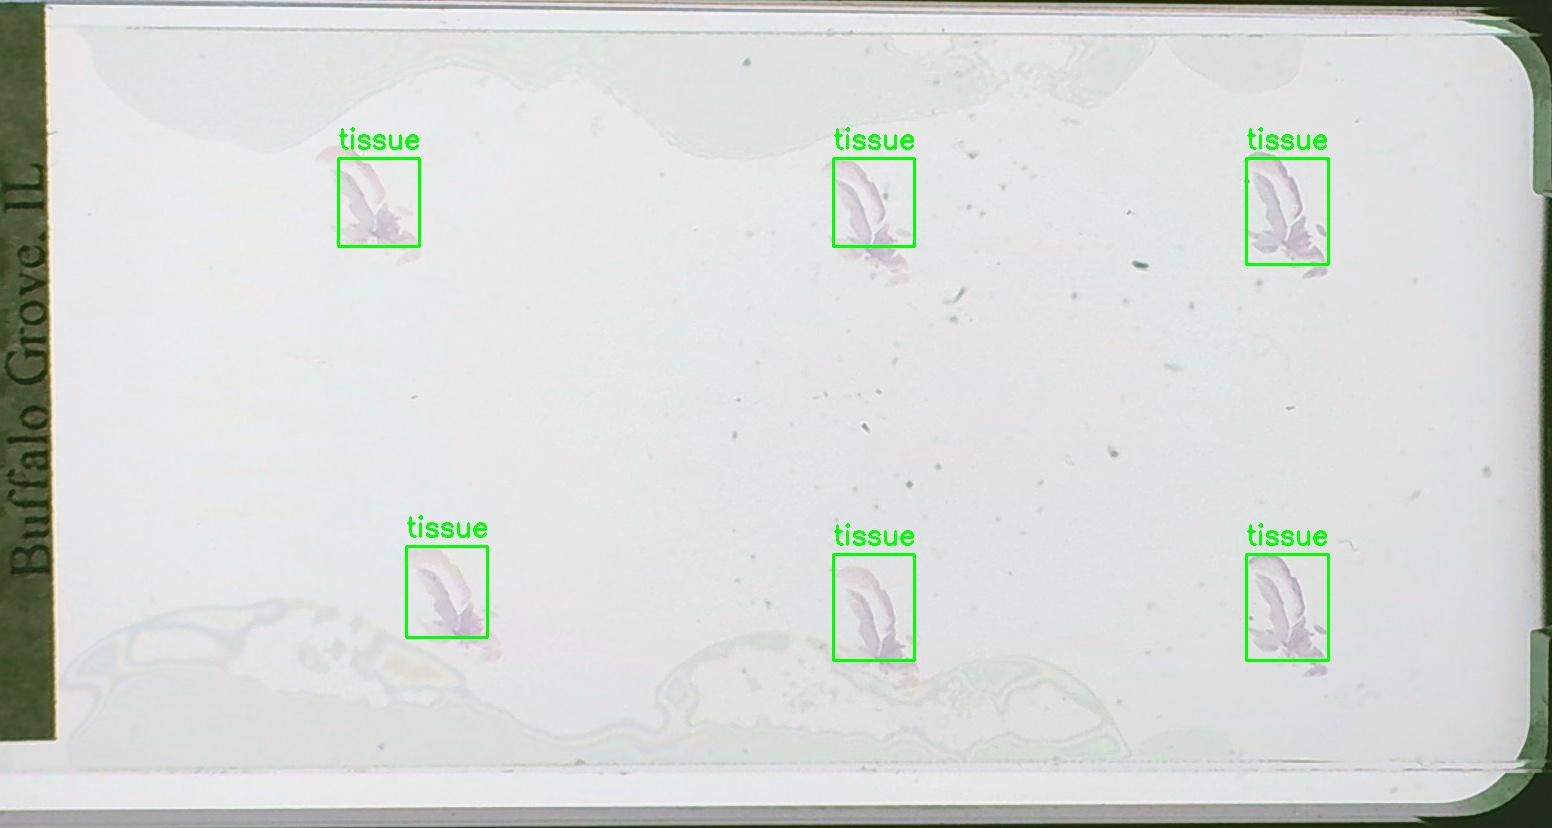
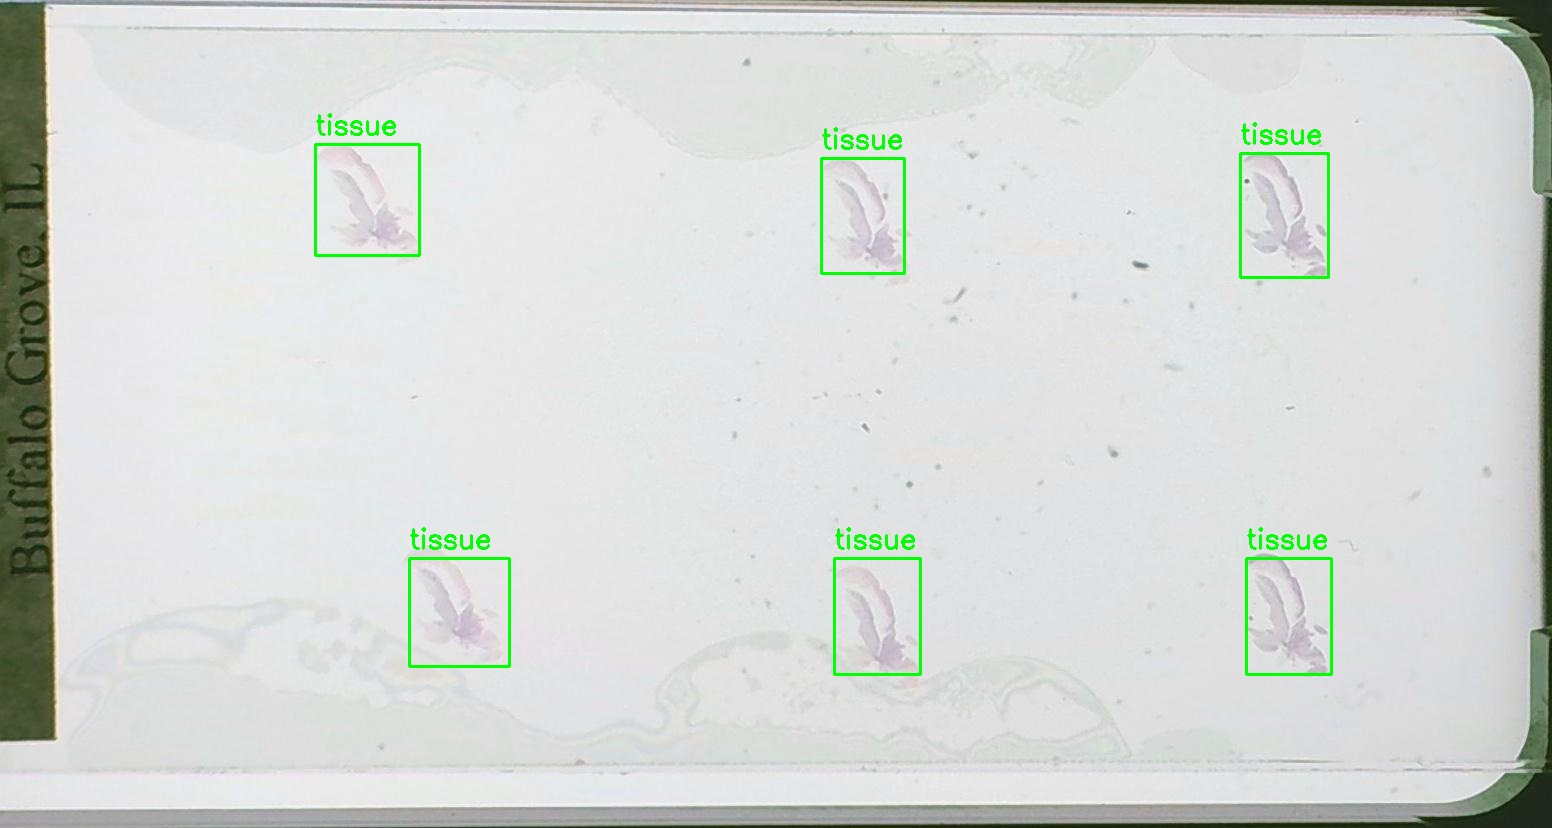
gemini extract works

diff --git a/find_identifying_boxes.py b/find_identifying_boxes.py
@@ -10,9 +10,9 @@ from pylibdmtx.pylibdmtx import decode as dmtx_decode
 from pyzbar import pyzbar
 
 from gcp_textract import detect_text
-from gemini_extract_tissue import (  # Import from gemini script
+from gemini_extract import (  # Import from gemini script
     BoundingBox,
-    gemini_extract_tissue,
+    gemini_extract,
 )
 
 # https://github.com/NaturalHistoryMuseum/pyzbar/issues/131
@@ -21,6 +21,7 @@ from gemini_extract_tissue import (  # Import from gemini script
 # --- Usage Examples ---
 # Process a single image and display the result:
 # uv run python find_identifying_boxes.py ./sample/macro_images/GR24-4430_A_HE_M_78_macro.jpg
+# uv run python find_identifying_boxes.py ./sample/macro_images/GP17-009358_A_HE_macro.jpg
 #
 # Process a single image and save the annotated output:
 # uv run python find_identifying_boxes.py ./sample/macro_images/GR24-4430_A_HE_M_78_macro.jpg --output ./sample/macro_images_annotated/GR24-4430_A_HE_M_78_macro_annotated.jpg
@@ -334,27 +335,38 @@ def process_image(image_path, output_path=None, hide_window=False):
     # --- Tissue Detection (Gemini) ---
     print("  Finding tissue regions (using Gemini)...")
     tissue_start = time.time()
-    tissue_boxes_rel: list[BoundingBox] = []
-    tissue_boxes_abs: list[tuple[int, int, int, int]] = []
+    gemini_response: list[BoundingBox] = []
+    gemini_tissue_boxes_abs: list[tuple[int, int, int, int]] = []
+    gemini_text_boxes_abs: list[tuple[int, int, int, int]] = []
     try:
         # Assuming gemini_extract_tissue handles its own auth/config via env vars or defaults
         # Pass None for project/location initially, relying on its internal handling
-        tissue_boxes_rel = gemini_extract_tissue(
-            file_path=image_path, project_id=None, location=None
+        gemini_response = gemini_extract(
+            file_path=image_path,
         )
-        if tissue_boxes_rel:
+        if gemini_response:
             # Convert relative coordinates to absolute pixel coordinates
-            for box in tissue_boxes_rel:
+            for box in gemini_response:
                 x_abs = int(box["x"] * img_width)
                 y_abs = int(box["y"] * img_height)
                 w_abs = int(box["width"] * img_width)
                 h_abs = int(box["height"] * img_height)
                 # Basic validation
-                if w_abs > 0 and h_abs > 0:
-                    tissue_boxes_abs.append((x_abs, y_abs, w_abs, h_abs))
+                if w_abs <= 0 or h_abs <= 0:
+                    print(
+                        f"    - Warning: Skipping invalid tissue box dimension from Gemini: {box}"
+                    )
+                    continue
+                if box["label"] == "tissue":
+                    gemini_tissue_boxes_abs.append((x_abs, y_abs, w_abs, h_abs))
                     print(
                         f"    - Tissue Label: {box['label']}, Rect: {(x_abs, y_abs, w_abs, h_abs)}"
-                    )  # Print absolute coords
+                    )
+                elif box["label"] == "text":
+                    gemini_text_boxes_abs.append((x_abs, y_abs, w_abs, h_abs))
+                    print(
+                        f"    - Text Label: {box['label']}, Rect: {(x_abs, y_abs, w_abs, h_abs)}"
+                    )
                 else:
                     print(
                         f"    - Warning: Skipping invalid tissue box dimension from Gemini: {box}"
@@ -366,7 +378,7 @@ def process_image(image_path, output_path=None, hide_window=False):
 
     tissue_duration = time.time() - tissue_start
     print(
-        f"  Found {len(tissue_boxes_abs)} tissue region(s). (Detection time: {tissue_duration:.4f}s)"
+        f"  Found {len(gemini_tissue_boxes_abs)} tissue region(s). (Detection time: {tissue_duration:.4f}s)"
     )
 
     # Combine barcode and text boxes for initial check
@@ -375,18 +387,23 @@ def process_image(image_path, output_path=None, hide_window=False):
         initial_all_boxes.extend([b["rect"] for b in barcode_boxes])
     if text_boxes:  # Check if text_boxes is not None/empty
         initial_all_boxes.extend(text_boxes)
+    if gemini_text_boxes_abs:  # Also include gemini text boxes in the initial list
+        initial_all_boxes.extend(gemini_text_boxes_abs)
+        text_boxes.extend(
+            gemini_text_boxes_abs
+        )  # Combine GCP and Gemini text boxes for filtering/drawing
 
     # --- Filter boxes intersecting with tissue ---
     filtered_barcode_boxes = []  # Keep original structure for drawing labels
     filtered_text_boxes = []
     filtered_all_rects = []  # List of (x,y,w,h) for encompassing box calc
 
-    if tissue_boxes_abs:  # Only filter if we have tissue boxes
+    if gemini_tissue_boxes_abs:  # Only filter if we have tissue boxes
         print("  Filtering boxes that intersect with tissue regions...")
         # Filter Barcodes
         for bc_info in barcode_boxes:
             intersect = False
-            for tissue_box in tissue_boxes_abs:
+            for tissue_box in gemini_tissue_boxes_abs:
                 if check_intersection(bc_info["rect"], tissue_box):
                     intersect = True
                     print(
@@ -400,7 +417,7 @@ def process_image(image_path, output_path=None, hide_window=False):
         # Filter Text Boxes
         for text_box in text_boxes:
             intersect = False
-            for tissue_box in tissue_boxes_abs:
+            for tissue_box in gemini_tissue_boxes_abs:
                 if check_intersection(text_box, tissue_box):
                     intersect = True
                     print(f"    - Removing text box intersecting tissue: {text_box}")
@@ -435,14 +452,16 @@ def process_image(image_path, output_path=None, hide_window=False):
     output_image_generated = False
     # Draw if output path specified, or if there are *any* boxes (including tissue), or if hidden
     # Logic slightly adjusted: always draw if output path exists. Draw if not hidden and *any* box type exists.
-    if output_path or ((filtered_all_rects or tissue_boxes_abs) and not hide_window):
+    if output_path or (
+        (filtered_all_rects or gemini_tissue_boxes_abs) and not hide_window
+    ):
         print("  Drawing bounding boxes on image...")
         # Pass filtered barcode/text lists and the absolute tissue boxes
         output_image = draw_boxes(
             image,
             filtered_barcode_boxes,
             filtered_text_boxes,
-            tissue_boxes_abs,
+            gemini_tissue_boxes_abs,
             encompassing_box,
         )
         output_image_generated = True
@@ -480,7 +499,7 @@ def process_image(image_path, output_path=None, hide_window=False):
             f"Detected Boxes (Barcode: Green, Text: Red, Tissue: Blue) - {os.path.basename(image_path)}",
             output_image,
         )
-    elif not filtered_all_rects and not tissue_boxes_abs:  # Adjusted condition
+    elif not filtered_all_rects and not gemini_tissue_boxes_abs:  # Adjusted condition
         print(
             "  No barcodes, text boxes, or tissue boxes were found to display or save."
         )

diff --git a/gemini_extract.py b/gemini_extract.py
@@ -19,8 +19,8 @@ class BoundingBox(typing.TypedDict):
     label: str
 
 
-def gemini_extract_tissue(
-    file_path: str, project_id: str | None, location: str | None = "us-west1"
+def gemini_extract(
+    file_path: str,
 ) -> list[BoundingBox]:
     client = genai.Client(
         api_key=os.getenv("GEMINI_API_KEY"),
@@ -32,8 +32,8 @@ def gemini_extract_tissue(
     files = [
         client.files.upload(file=file_path),
     ]
-    # model = "gemini-2.5-flash-preview-04-17"
-    model = "gemini-2.0-flash"
+    model = "gemini-2.5-flash-preview-04-17"
+    # model = "gemini-2.0-flash"
     contents = [
         types.Content(
             role="user",
@@ -43,7 +43,7 @@ def gemini_extract_tissue(
                     mime_type=files[0].mime_type,
                 ),
                 types.Part.from_text(
-                    text="""Detect tissue in a single item. Output a json list where each entry contains the 2D bounding box in "box_2d" and tissue in "label"."""
+                    text="""Detect text and tissue with no more than 20 items. Output a json list where each entry contains the 2D bounding box in "box_2d" and tissue/text in "label"."""
                 ),
             ],
         ),
@@ -93,7 +93,7 @@ if __name__ == "__main__":
 
     args = parser.parse_args()
 
-    boxes = gemini_extract_tissue(args.file_path, args.project, args.location)
+    boxes = gemini_extract(args.file_path)
     print(boxes)
     if boxes:
         img = cv2.imread(args.file_path)
